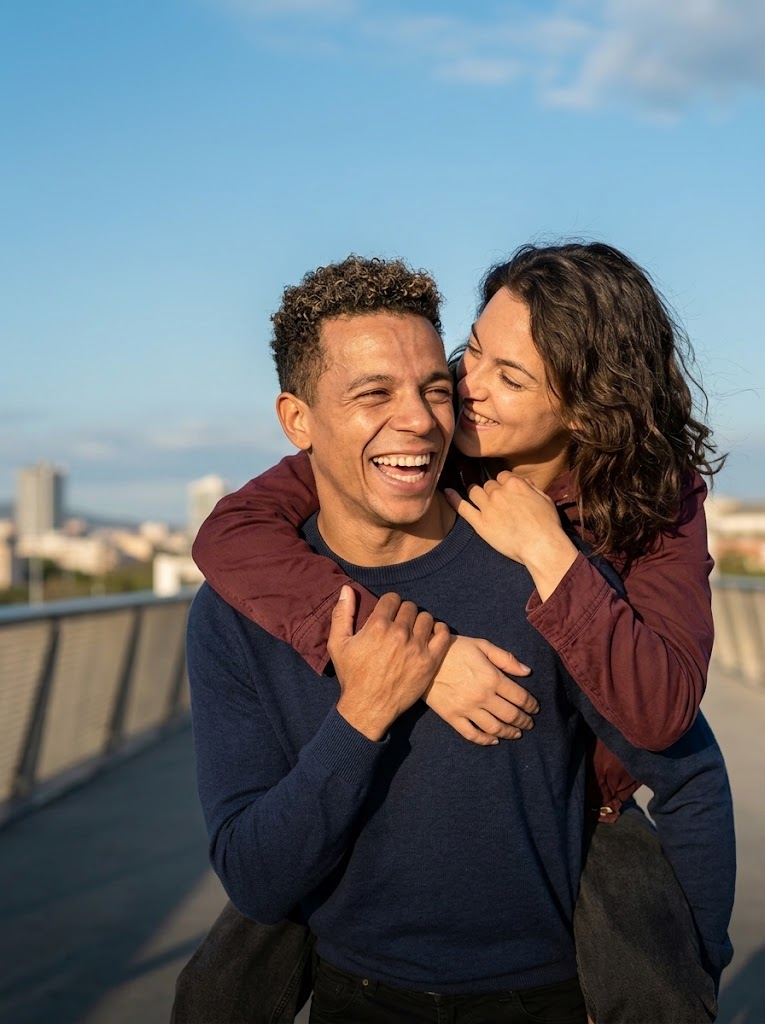
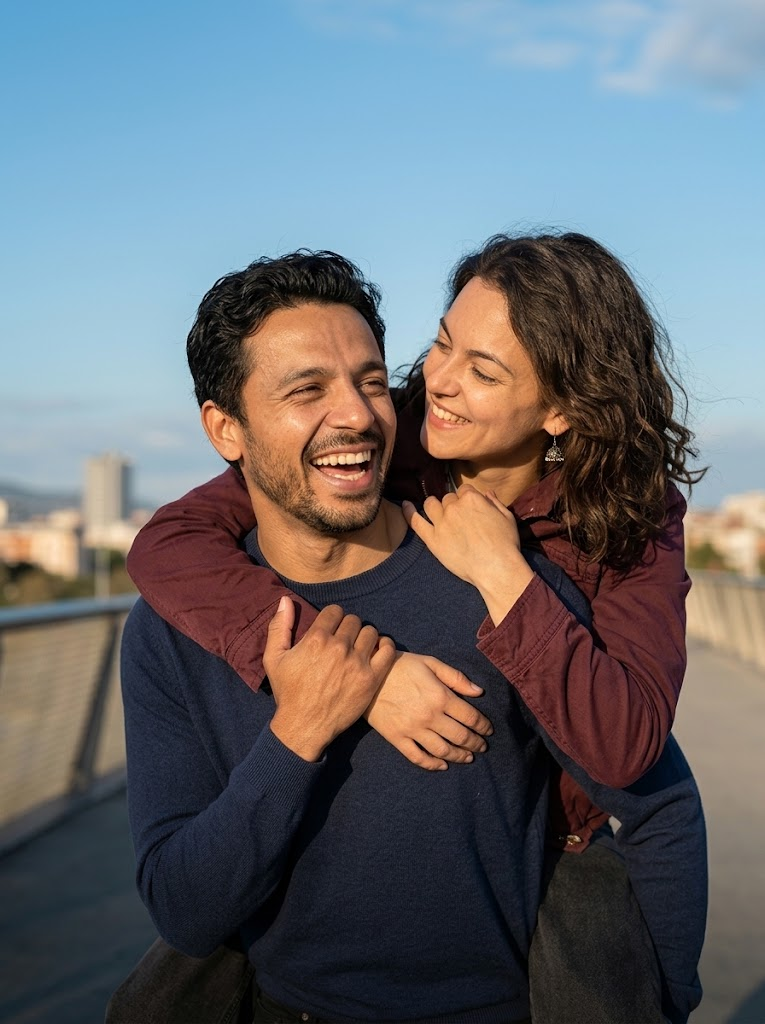
fix: Restore header links across all pages except journey routes. Slightly update IR1 visa category image. Updated tool mode types.

diff --git a/types/tool-mode.ts b/types/tool-mode.ts
@@ -34,4 +34,15 @@ export interface ToolModeProps {
   journeyContext?: JourneyToolContext;
   /** Journey's specific subscription tier (e.g. state.subscriptionTier) */
   journeyTier?: string | null;
+  /**
+   * Journey chrome style (service tools: Medical / PCC / Consultation):
+   * - false/undefined: full-screen modal overlay with its own sticky topbar
+   *   (used by the StepView overlay mounts, e.g. journey-spouse).
+   * - true: renders INLINE inside the journey `roadmap-main` region, relying on
+   *   the RoadmapLayoutEngine breadcrumb (Dashboard › Tool › ✕) for close/back —
+   *   the same chrome Document Translation uses. The in-content progress/metro
+   *   stepper is shown because there is no topbar progress bar. Passed by
+   *   EmbeddedToolContainer so toolbox launches stay consistent.
+   */
+  embedded?: boolean;
 }

diff --git a/app/components/layout/SiteHeader.tsx b/app/components/layout/SiteHeader.tsx
@@ -359,8 +359,9 @@ export function SiteHeader({
   const pathname = usePathname();
   const { isInsideJourney, journeyCategory, journeySlug } = useJourneyEnvironment();
   const isJourneyPath = pathname
-    ? /^\/visa-category\/(?:[a-z0-9-]+-journey|ir-1|ir-5|ir-2|f-1|germany-student)/.test(pathname)
-    : false;
+  ? /^\/visa-category\/(?:ir1-journey|ir5-journey)/.test(pathname)
+  : false;
+
   const isJourneyEnvironment = isInsideJourney || isJourneyPath;
 
   const [isMenuOpen, setIsMenuOpen] = useState(false);
